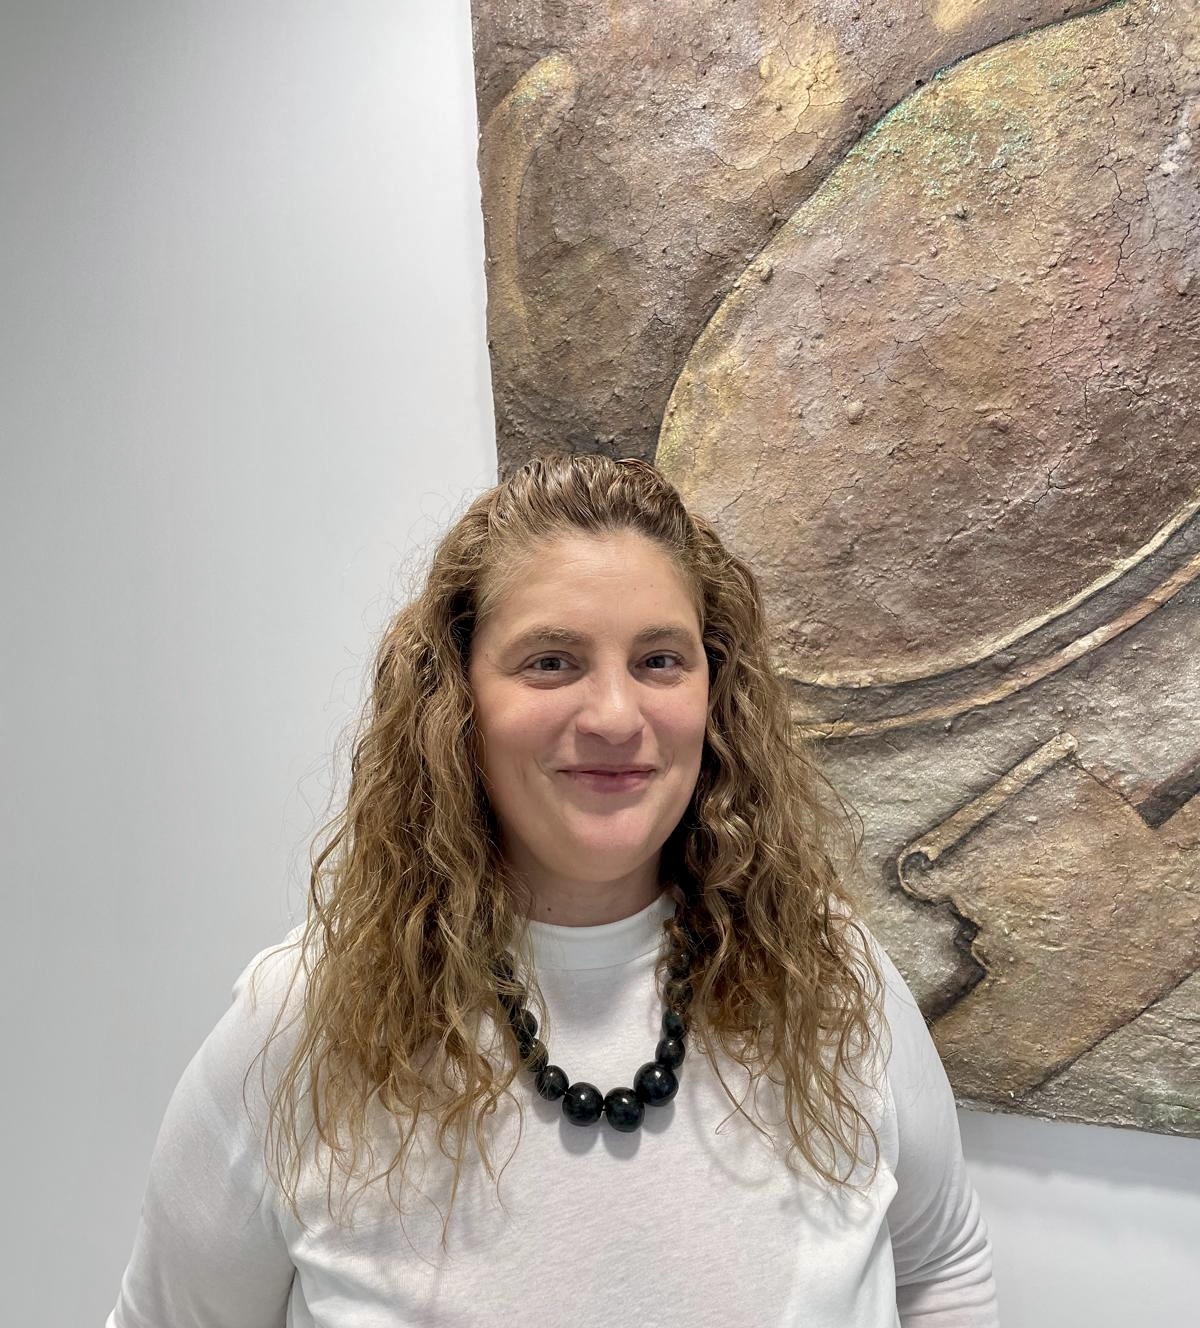
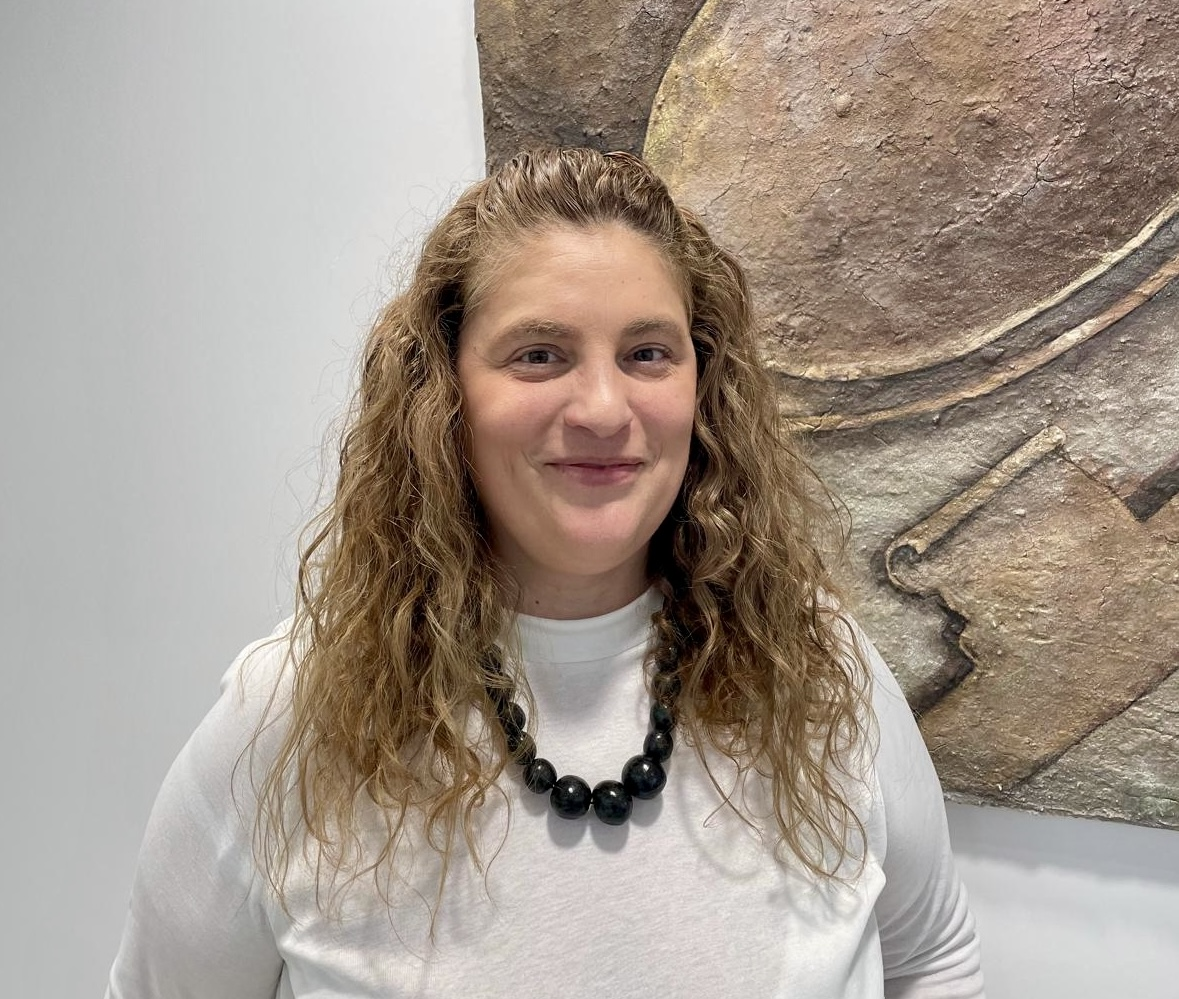
Actualiza portadas y contacto

diff --git a/components/page-hero.tsx b/components/page-hero.tsx
@@ -18,9 +18,9 @@ export function PageHero({ title, subtitle, image = "/images/projects/excavacion
         sizes="100vw"
         className="scale-[1.01] object-cover"
       />
-      <div className="absolute inset-0 bg-base-black/46 backdrop-blur-[1.25px]" />
-      <div className="absolute inset-0 bg-[linear-gradient(110deg,rgba(136,94,128,0.42)_0%,rgba(17,17,17,0.2)_35%,rgba(17,17,17,0.54)_100%)]" />
-      <div className="absolute inset-x-0 bottom-0 h-28 bg-gradient-to-t from-base-black/35 to-transparent" />
+      <div className="absolute inset-0 bg-base-black/40 backdrop-blur-[0.75px]" />
+      <div className="absolute inset-0 bg-[linear-gradient(110deg,rgba(136,94,128,0.34)_0%,rgba(17,17,17,0.14)_35%,rgba(17,17,17,0.48)_100%)]" />
+      <div className="absolute inset-x-0 bottom-0 h-28 bg-gradient-to-t from-base-black/28 to-transparent" />
       <Container className="relative py-20 md:py-28 xl:py-32">
         <div className="max-w-4xl">
           <div className="inline-flex items-center gap-3 rounded-full border border-white/25 bg-white/10 px-4 py-2 text-[11px] font-semibold uppercase tracking-[0.28em] text-white shadow-soft backdrop-blur-md">

diff --git a/app/areas-de-trabajo/page.tsx b/app/areas-de-trabajo/page.tsx
@@ -15,7 +15,7 @@ export const metadata = pageMetadata(
   "Áreas de trabajo",
   "Descubra nuestras áreas de trabajo y el alcance de los servicios que desarrollamos en construcción, excavaciones, obra civil y logística.",
   "/areas-de-trabajo",
-  { image: "/images/projects/demolicion-en-santa-ponca/03.webp" }
+  { image: "/images/projects/aeropuerto-palma-reciclaje/01.jpg" }
 );
 
 export default async function AreasTrabajoPage() {
@@ -33,7 +33,7 @@ export default async function AreasTrabajoPage() {
         ])}
       />
 
-      <PageHero title={text.pageTitle} subtitle={text.pageSubtitle} image="/images/projects/demolicion-en-santa-ponca/03.webp" />
+      <PageHero title={text.pageTitle} subtitle={text.pageSubtitle} image="/images/projects/aeropuerto-palma-reciclaje/01.jpg" />
 
       <section className="bg-brand-yellow py-20">
         <Container>

diff --git a/app/rsc/page.tsx b/app/rsc/page.tsx
@@ -16,7 +16,7 @@ export const metadata = pageMetadata(
   "Conozca el compromiso social, formativo y medioambiental de DOSMAS GRUP a través de iniciativas reales que generan valor para las personas, el territorio y nuestro entorno.",
   "/rsc",
   {
-    image: "/images/team/foto-grupo-puente.jpg",
+    image: "/images/projects/portocolom/09.jpg",
     keywords: ["RSC", "sostenibilidad", "responsabilidad social", "DOSMAS GRUP"]
   }
 );
@@ -42,7 +42,7 @@ export default async function RscPage() {
         ])}
       />
 
-      <PageHero title={text.pageTitle} subtitle={text.pageSubtitle} image="/images/team/foto-grupo-puente.jpg" />
+      <PageHero title={text.pageTitle} subtitle={text.pageSubtitle} image="/images/projects/portocolom/09.jpg" />
 
       <section className="bg-brand-yellow py-20">
         <Container className="space-y-10">

diff --git a/app/contacto/page.tsx b/app/contacto/page.tsx
@@ -15,7 +15,7 @@ export const metadata = pageMetadata(
   "Contacta con DOSMAS GRUP para resolver una consulta, solicitar información o coordinar una reunión con nuestro equipo.",
   "/contacto",
   {
-  image: "/images/team/foto-grupo-puente.jpg"
+  image: "/images/projects/son-ribotet-nueva-vina/06.jpg"
   }
 );
 
@@ -34,7 +34,7 @@ export default async function ContactoPage() {
         ])}
       />
 
-      <PageHero title={text.pageTitle} subtitle={text.pageSubtitle} image="/images/team/foto-grupo-puente.jpg" />
+      <PageHero title={text.pageTitle} subtitle={text.pageSubtitle} image="/images/projects/son-ribotet-nueva-vina/06.jpg" />
 
       <section className="bg-white py-20">
         <Container className="grid gap-10 xl:grid-cols-[1.05fr_0.95fr]">

diff --git a/app/noticias/page.tsx b/app/noticias/page.tsx
@@ -15,7 +15,7 @@ export const metadata = pageMetadata(
   "Noticias",
   "Noticias de DOSMAS GRUP.",
   "/noticias",
-  { image: "/images/projects/casa-en-son-vida/08.webp", keywords: ["blog", "noticias", "obra civil"] }
+  { image: "/images/projects/cas-concos/12.jpg", keywords: ["blog", "noticias", "obra civil"] }
 );
 
 export default async function NoticiasPage() {
@@ -37,7 +37,7 @@ export default async function NoticiasPage() {
       <PageHero
         title={text.pageTitle}
         subtitle={text.pageSubtitle}
-        image="/images/projects/casa-en-son-vida/08.webp"
+        image="/images/projects/cas-concos/12.jpg"
       />
 
       <section className="bg-brand-yellow py-20">

diff --git a/team/data.ts b/team/data.ts
@@ -50,7 +50,7 @@ export const teamMembers: TeamMember[] = [
     email: "joan@dosmasgrup.com",
     phone: "663 080 914",
     image: "/images/team/people/joan-quetglas.jpg",
-    imagePosition: "center 18%"
+    imagePosition: "center 34%"
   },
   {
     name: "Manel Pascual",
@@ -66,7 +66,7 @@ export const teamMembers: TeamMember[] = [
     email: "elisagonzalez@dosmasgrup.com",
     phone: "607 622 387",
     image: "/images/team/people/elisa-gonzalez.jpg",
-    imagePosition: "center 15%"
+    imagePosition: "center 28%"
   },
   {
     name: "Magali Perez",
